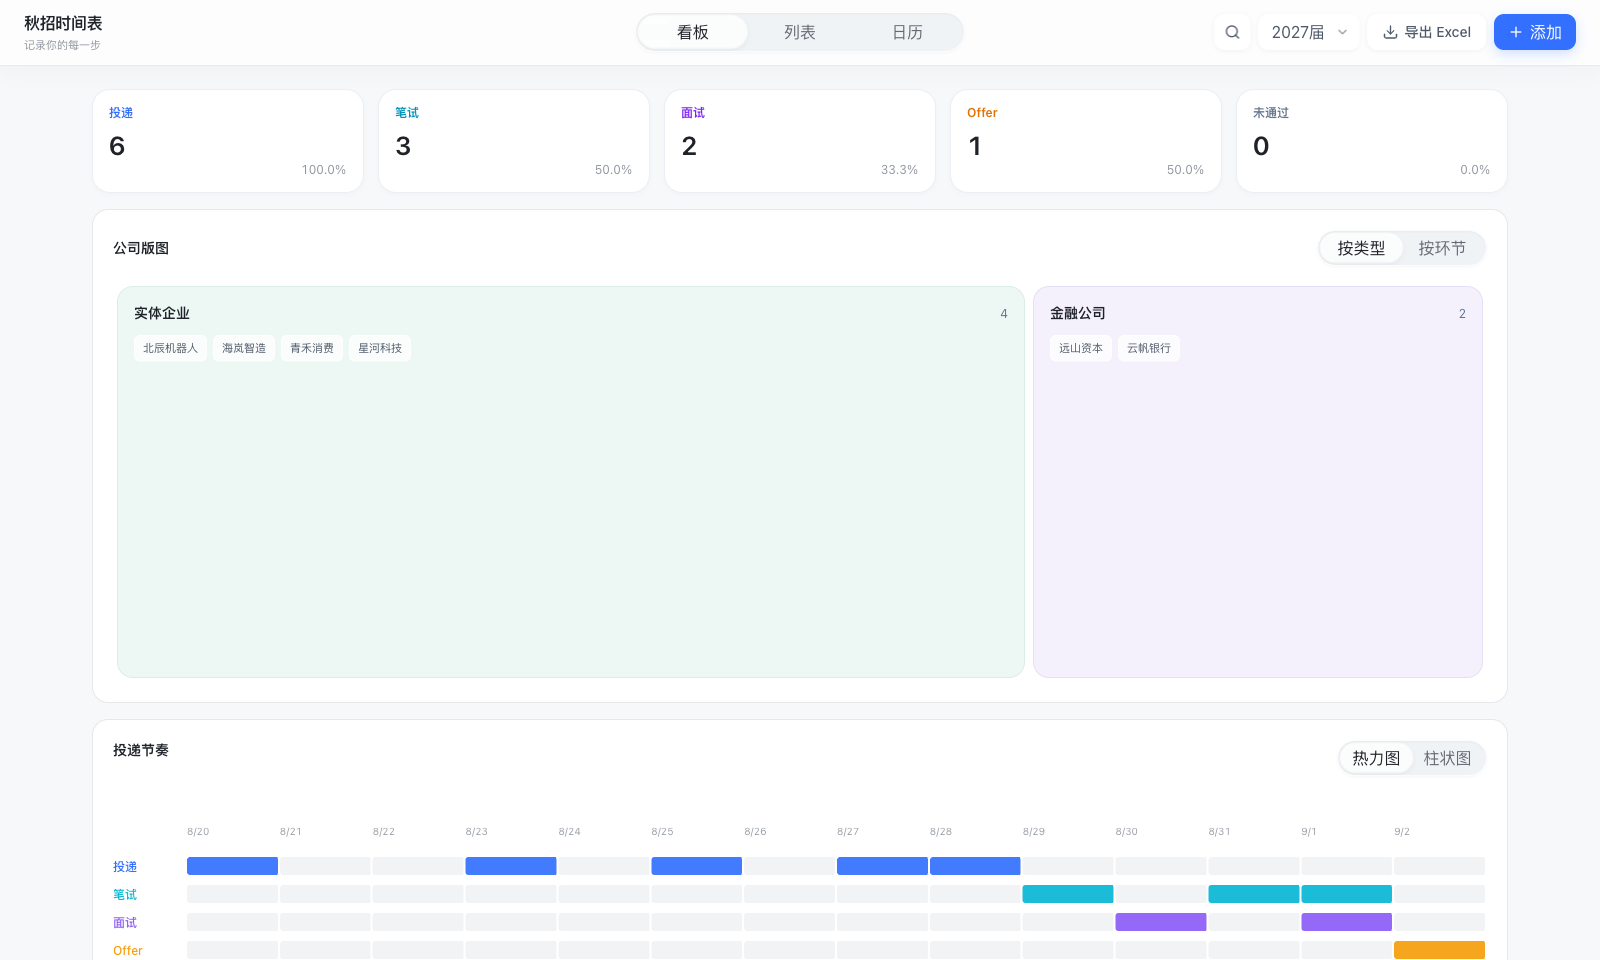
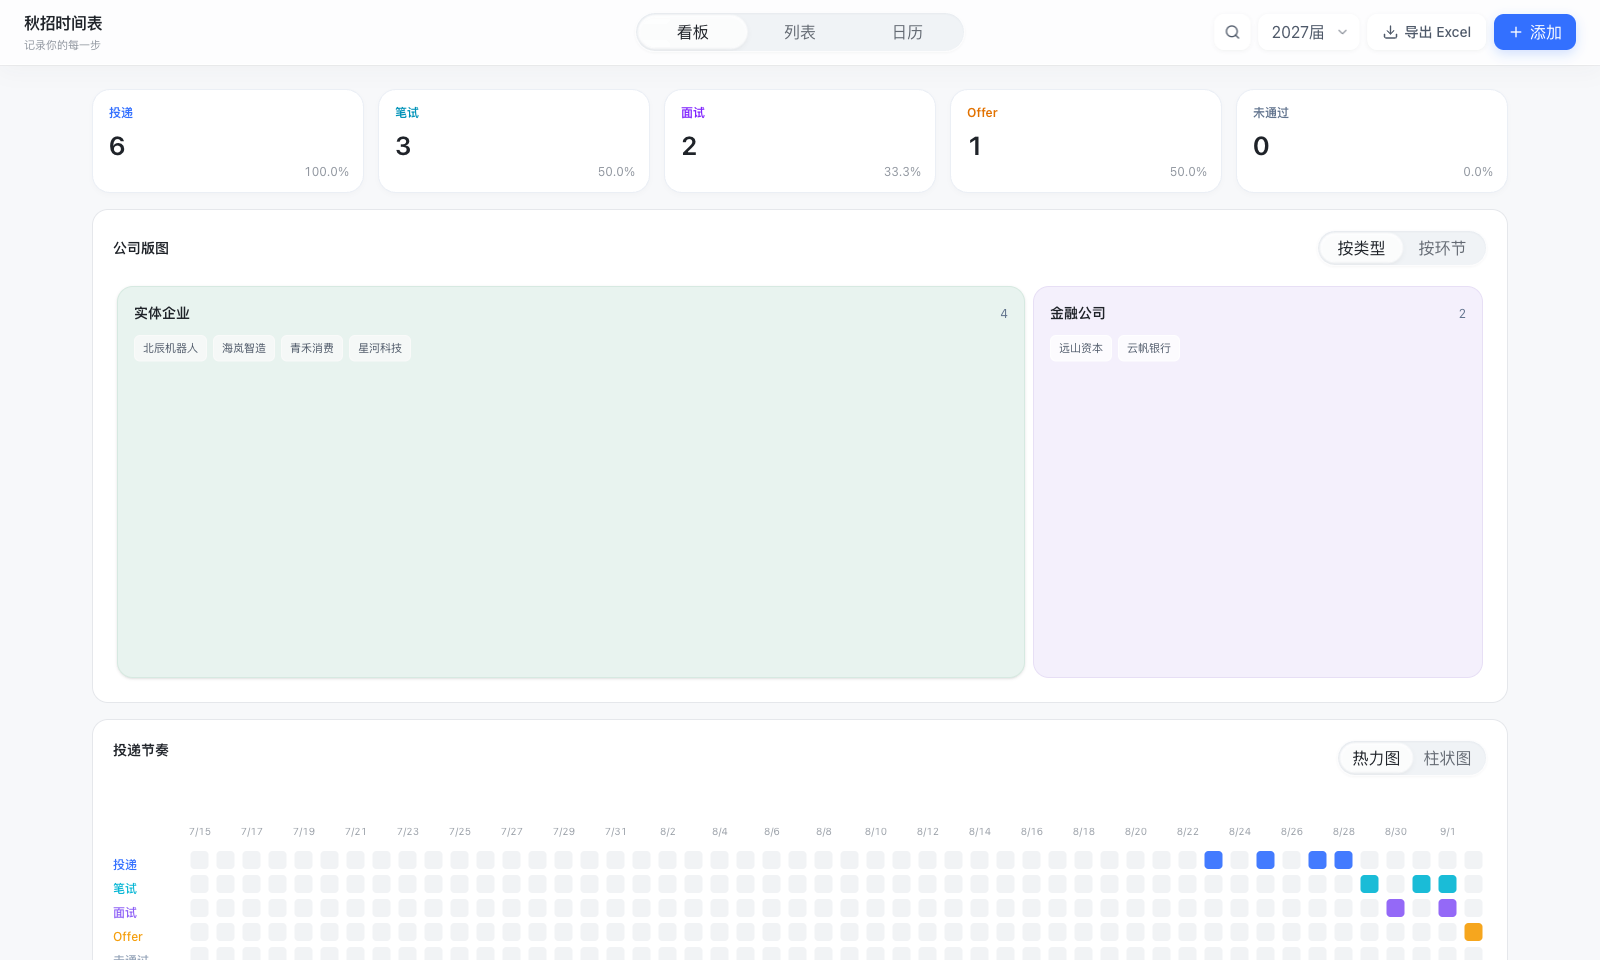
Tighten fixed-width application rhythm chart

diff --git a/components/DailyFlowChart.tsx b/components/DailyFlowChart.tsx
@@ -7,6 +7,11 @@ import { SlidingSegmentedControl } from "./SlidingSegmentedControl";
 
 type ChartMode = "heatmap" | "bars";
 
+// 每个日期使用固定的横向槽位，避免日期少时被拉伸、日期多时被压缩。
+// 热力图色块仍保持小方块，日期轴超出可视区域后由右侧主体负责横向滚动。
+const FLOW_CELL_WIDTH = 26;
+const FLOW_LABEL_SLOT = 40;
+
 const STAGE_HEX: Record<Stage, string> = {
   投递: "#3370ff",
   笔试: "#06b6d4",
@@ -50,7 +55,7 @@ export function DailyFlowChart({ schedules }: { schedules: Schedule[] }) {
     return { dates, counts };
   }, [schedules]);
 
-  const labelStep = Math.max(1, Math.ceil(data.dates.length / Math.max(1, Math.floor((width - 74) / 56))));
+  const labelStep = Math.max(1, Math.ceil(data.dates.length / Math.max(1, Math.floor((width - 74) / FLOW_LABEL_SLOT))));
 
   return (
     <section aria-labelledby="daily-flow-title" className="rounded-2xl border border-[#e5e7eb] bg-white p-5">
@@ -128,32 +133,46 @@ function Heatmap({
   const maxima = Object.fromEntries(
     STAGES.map((stage) => [stage, Math.max(1, ...dates.map((date) => counts.get(date)![stage]))]),
   ) as Record<Stage, number>;
-  const plotWidth = "100%";
+  const scrollRef = useRef<HTMLDivElement>(null);
+  const columns = `repeat(${dates.length}, ${FLOW_CELL_WIDTH}px)`;
+  const plotWidth = dates.length * FLOW_CELL_WIDTH;
+
+  useEffect(() => {
+    const scrollElement = scrollRef.current;
+    if (!scrollElement) return;
+    // 初次进入或日期范围扩展时，将最新日期保持在可视区域右侧。
+    const frame = window.requestAnimationFrame(() => {
+      scrollElement.scrollLeft = scrollElement.scrollWidth;
+    });
+    return () => window.cancelAnimationFrame(frame);
+  }, [dates.length]);
 
   return (
     <div className="flex min-w-0">
       <div className="w-[74px] shrink-0 pt-14">
         {STAGES.map((stage) => (
-          <div className="flex h-7 items-center text-xs font-medium" key={stage} style={{ color: STAGE_HEX[stage] }}>{stage}</div>
+          <div className="flex h-6 items-center text-xs font-medium" key={stage} style={{ color: STAGE_HEX[stage] }}>{stage}</div>
         ))}
       </div>
-      <div className="chart-scroll min-w-0 flex-1 overflow-x-auto overflow-y-visible pb-2 pt-7">
-        <div style={{ width: plotWidth }}>
-          <div className="grid" style={{ gridTemplateColumns: `repeat(${dates.length}, minmax(0, 1fr))` }}>
+      <div className="chart-scroll min-w-0 flex-1 overflow-x-auto overflow-y-visible pb-2 pt-7" ref={scrollRef}>
+        <div style={{ width: plotWidth, minWidth: plotWidth }}>
+          <div className="grid" style={{ gridTemplateColumns: columns }}>
             {dates.map((date, index) => (
-              <span className="h-7 whitespace-nowrap text-[10px] tabular-nums text-[#9aa0a8]" key={date}>
+              <span className="flex h-6 w-[26px] items-start justify-center whitespace-nowrap text-[10px] tabular-nums text-[#9aa0a8]" key={date}>
                 {index % labelStep === 0 ? formatShortDate(date) : ""}
               </span>
             ))}
           </div>
           {STAGES.map((stage) => (
-            <div className="grid h-7 items-center" key={stage} style={{ gridTemplateColumns: `repeat(${dates.length}, minmax(0, 1fr))` }}>
+            <div className="grid h-6 items-center" key={stage} style={{ gridTemplateColumns: columns }}>
               {dates.map((date) => {
                 const day = counts.get(date)!;
                 const value = day[stage];
                 const alpha = value ? 0.2 + (value / maxima[stage]) * 0.72 : 0.055;
                 return (
-                  <div data-flow-date={date} aria-label={`${date} ${stage} ${value}条`} className="relative h-[18px] border-r-2 border-white rounded-[3px]" key={date} style={{ backgroundColor: value ? `${STAGE_HEX[stage]}${Math.round(alpha * 255).toString(16).padStart(2, "0")}` : "#f1f3f5" }} />
+                  <div data-flow-date={date} aria-label={`${date} ${stage} ${value}条`} className="flex h-6 w-[26px] items-center justify-center border-r border-white" key={date}>
+                    <span className="h-[18px] w-[18px] rounded-[4px]" style={{ backgroundColor: value ? `${STAGE_HEX[stage]}${Math.round(alpha * 255).toString(16).padStart(2, "0")}` : "#f1f3f5" }} />
+                  </div>
                 );
               })}
             </div>
@@ -175,21 +194,32 @@ function StackedBars({
 }) {
   const totals = dates.map((date) => STAGES.reduce((sum, stage) => sum + counts.get(date)![stage], 0));
   const maxTotal = Math.max(1, ...totals);
-  const plotWidth = "100%";
+  const scrollRef = useRef<HTMLDivElement>(null);
+  const plotWidth = dates.length * FLOW_CELL_WIDTH;
+
+  useEffect(() => {
+    const scrollElement = scrollRef.current;
+    if (!scrollElement) return;
+    const frame = window.requestAnimationFrame(() => {
+      scrollElement.scrollLeft = scrollElement.scrollWidth;
+    });
+    return () => window.cancelAnimationFrame(frame);
+  }, [dates.length]);
+
   return (
-    <div className="chart-scroll relative pb-7 pt-7">
+    <div className="chart-scroll relative min-w-0 overflow-x-auto pb-7 pt-7" ref={scrollRef}>
       <span className="absolute left-0 top-0 text-[10px] text-[#9aa0a8]">{maxTotal} 条</span>
-      <div className="flex h-[190px] items-end border-b border-[#e5e7eb]" style={{ width: plotWidth }}>
+      <div className="flex h-[190px] items-end border-b border-[#e5e7eb]" style={{ width: plotWidth, minWidth: plotWidth }}>
         {dates.map((date, index) => {
           const day = counts.get(date)!;
           return (
-            <div data-flow-date={date} className="group relative flex h-full min-w-0 flex-1 flex-col justify-end border-r-2 border-white" key={date}>
-              <div className="flex w-full flex-col justify-end overflow-hidden rounded-t-[4px]" style={{ height: `${(totals[index] / maxTotal) * 154}px` }}>
+            <div data-flow-date={date} className="group relative flex h-full w-[26px] shrink-0 flex-col justify-end border-r border-white" key={date}>
+              <div className="mx-auto flex w-[18px] flex-col justify-end overflow-hidden rounded-t-[4px]" style={{ height: `${(totals[index] / maxTotal) * 154}px` }}>
                 {[...STAGES].reverse().map((stage) => day[stage] ? (
                   <span key={stage} style={{ backgroundColor: STAGE_HEX[stage], height: `${(day[stage] / Math.max(1, totals[index])) * 100}%` }} />
                 ) : null)}
               </div>
-              <span className="absolute top-[calc(100%+7px)] left-0 whitespace-nowrap text-[10px] tabular-nums text-[#9aa0a8]">
+              <span className="absolute left-0 top-[calc(100%+7px)] flex w-[26px] justify-center whitespace-nowrap text-[10px] tabular-nums text-[#9aa0a8]">
                 {index % labelStep === 0 ? formatShortDate(date) : ""}
               </span>
             </div>

diff --git a/README.md b/README.md
@@ -19,7 +19,7 @@
 - 核心进展按「公司 + 岗位」去重。同一岗位的一面、二面只计一次面试；投递代表全部已投岗位。笔试、面试和未通过比例以全部岗位为分母，Offer 比例以面试岗位为分母，各状态可重叠。
 - 每张进展卡片右下角的百分比可以单独点击：文字会以平滑翻转显示实际分数（例如 `2/6`），再次点击恢复百分比；分子和分母都随当前数据实时计算。
 - 公司分布图支持「按类型 / 按环节」切换，按对应的已投岗位数量分配面积；零岗位分组不占虚构面积。点击区域即可浏览该组公司，支持搜索和拼音首字母分组。
-- 投递节奏支持热力图、堆叠柱状图切换。两图均覆盖首条至末条记录的连续自然日，包含没有记录的日期。悬停可查看当天五种环节的数量和总数。这里统计事件次数，与顶部去重岗位数不同。
+- 投递节奏支持热力图、堆叠柱状图切换。两图均覆盖首条至末条记录的连续自然日，包含没有记录的日期；日期使用固定尺寸槽位，不会因数据增多而缩小，超出可视宽度后仅主体横向滚动，左侧状态名称保持固定，且默认定位到最新日期。悬停可查看当天五种环节的数量和总数。这里统计事件次数，与顶部去重岗位数不同。
 - 类型包括互联网大厂、金融公司、实体企业、央国企。放大浏览后，点击公司打开原有公司详情，再点击岗位查看 JD、批次和来源。可点击外部、关闭按钮或 Esc 返回。新增、修改和删除记录后，图表与公司浏览内容同步更新。
 
 分类规则集中在 `lib/companyClassifier.ts`。旧版「实业公司」在读取时兼容迁移，岗位和 JD 保留。
